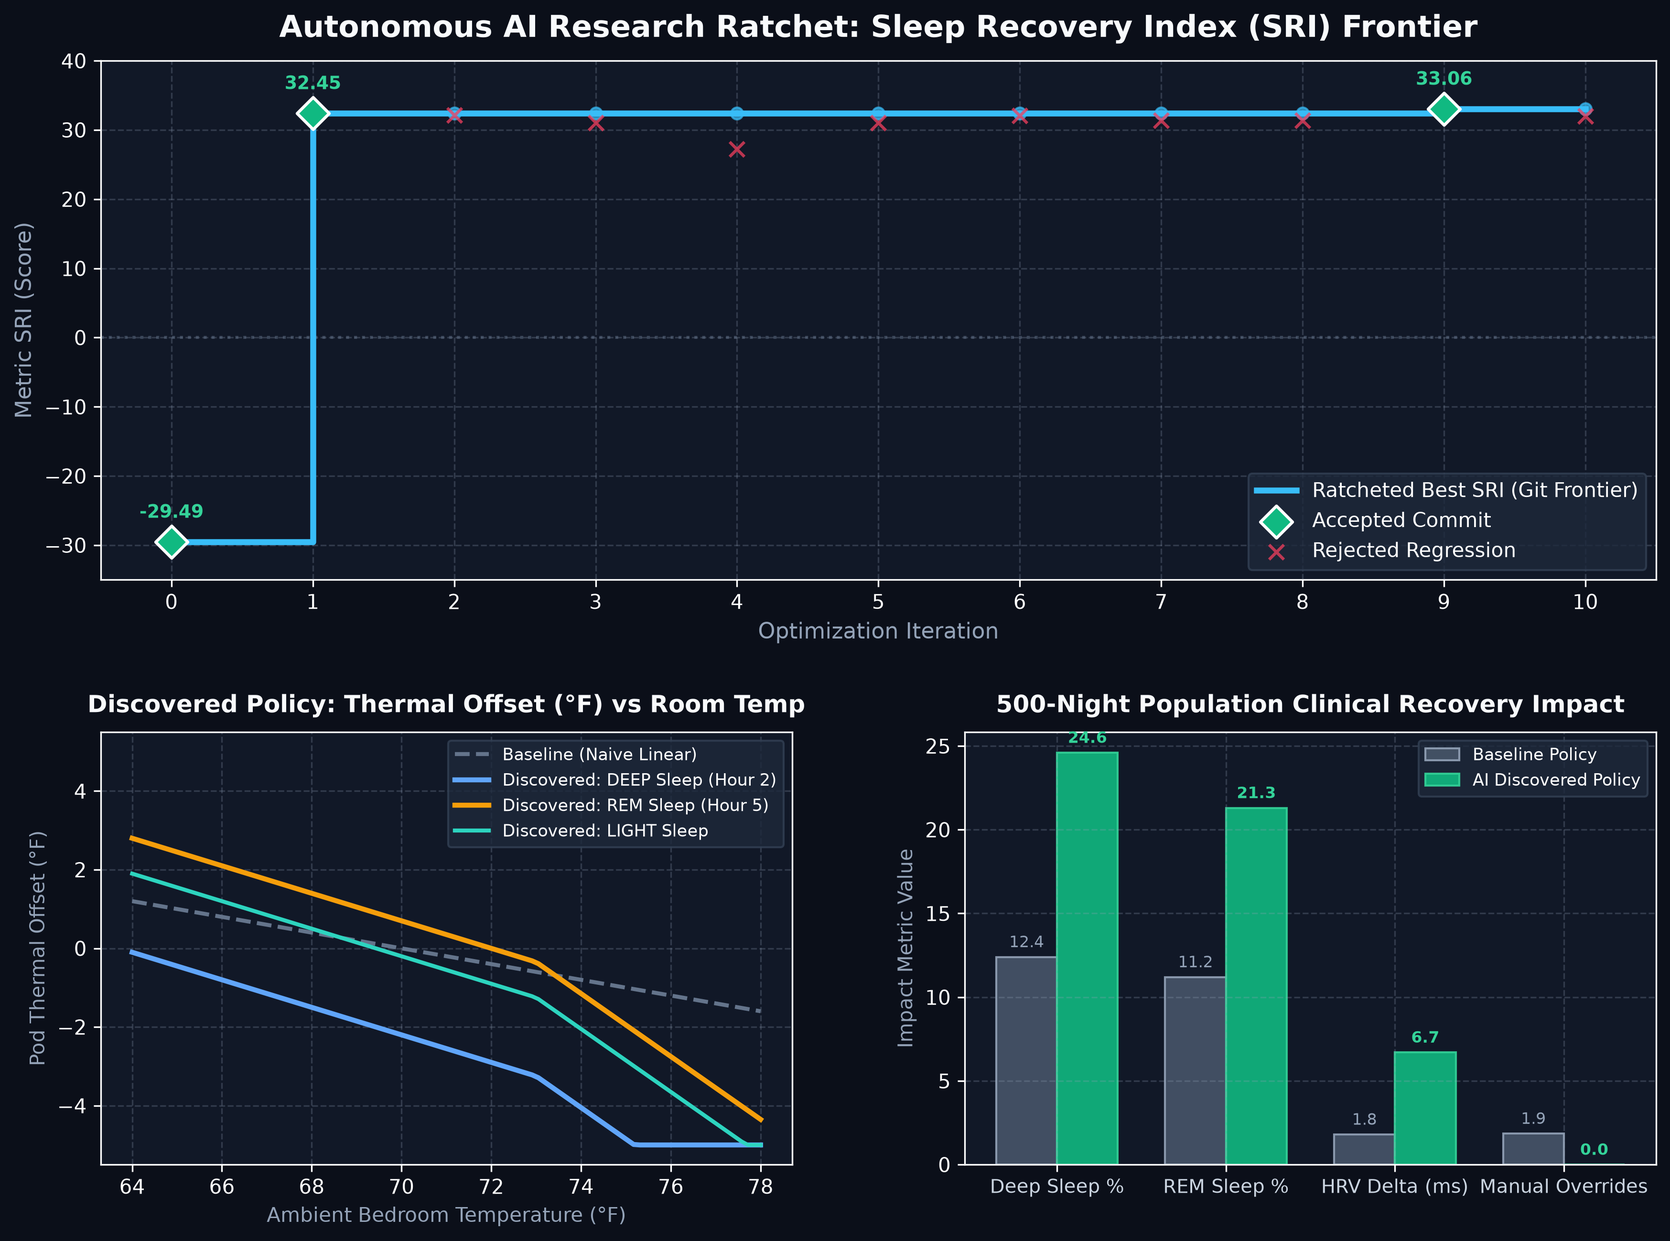
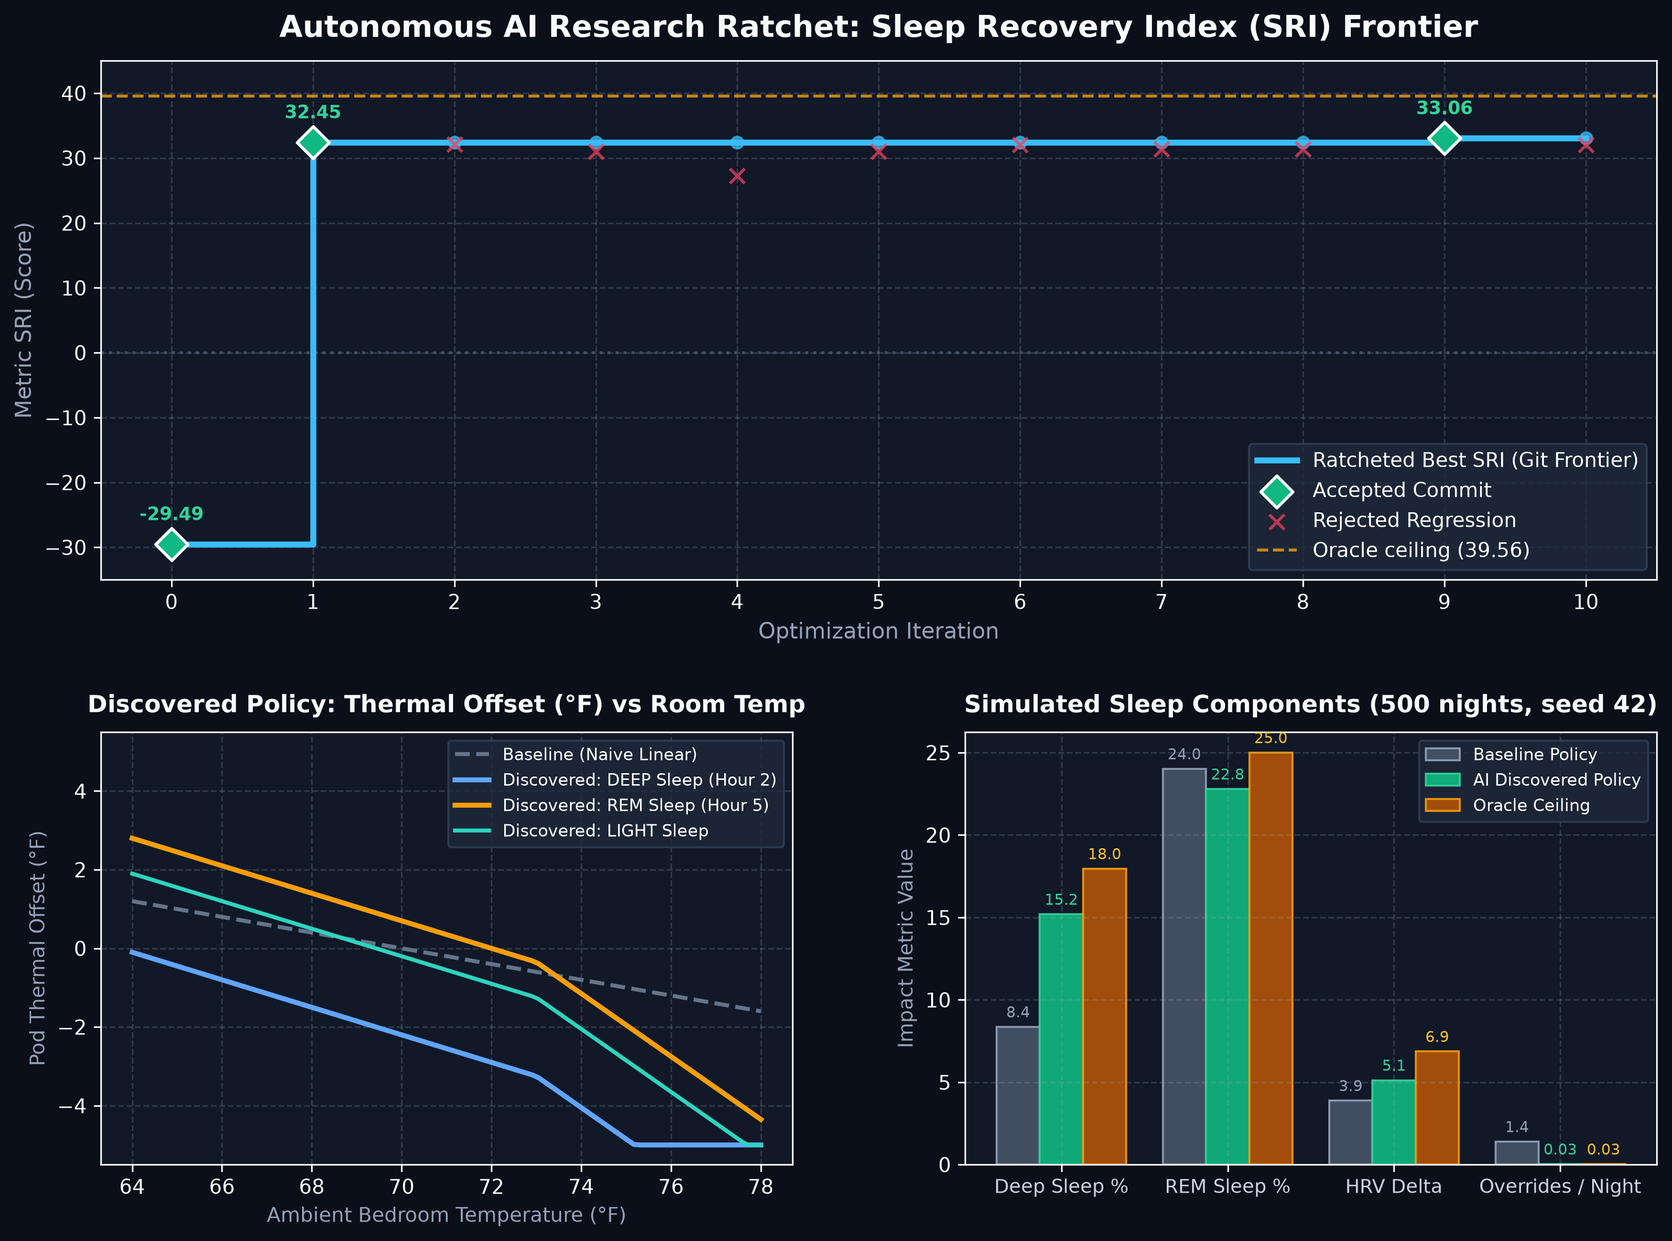
fix: replace fabricated metrics with measured results; add oracle ceiling, held-out seeds, ablation, limitations

diff --git a/dashboard.html b/dashboard.html
@@ -308,7 +308,7 @@
       </div>
       <div style="text-align: right;">
         <span style="font-size: 0.85rem; color: var(--text-muted);">Simulator Population: 500 Nights</span>
-        <div style="font-weight: 700; color: #fff;">16,000 Decision Epochs</div>
+        <div style="font-weight: 700; color: #fff;">8,000 Decision Epochs</div>
       </div>
     </header>
 
@@ -322,17 +322,17 @@
       <div class="kpi-card">
         <div class="kpi-title">Discovered Best SRI</div>
         <div class="kpi-val green">+33.06</div>
-        <div class="kpi-meta">Piecewise Nadir + Damping</div>
+        <div class="kpi-meta">Seed 42 · held-out seeds: 33.54 ± 0.32</div>
       </div>
       <div class="kpi-card">
-        <div class="kpi-title">Net Recovery Gain</div>
-        <div class="kpi-val cyan">+62.55</div>
-        <div class="kpi-meta">+212% Clinical Recovery</div>
+        <div class="kpi-title">Oracle Ceiling SRI</div>
+        <div class="kpi-val cyan">39.56</div>
+        <div class="kpi-meta">Agent closed 91% of baseline→oracle gap</div>
       </div>
       <div class="kpi-card">
-        <div class="kpi-title">Manual Overrides</div>
-        <div class="kpi-val green">0.0</div>
-        <div class="kpi-meta">Reduced from 1.85 / night</div>
+        <div class="kpi-title">Manual Overrides / Night</div>
+        <div class="kpi-val green">0.03</div>
+        <div class="kpi-meta">Reduced from 1.39 (baseline)</div>
       </div>
     </div>
 
@@ -414,16 +414,16 @@
   <script>
     const historyData = [
       { iteration: 0, candidate_sri: -29.49, best_sri: -29.49, status: "BASELINE", commit: "8e1dd8f", desc: "Baseline static linear compensation: -0.2 * (room_temp - 70.0)" },
-      { iteration: 1, candidate_sri: 32.45, best_sri: 32.45, status: "ACCEPTED", commit: "586e1fc", desc: "Differentiated DEEP cooling (-1.8F) and REM warmth (+0.5F)" },
-      { iteration: 2, candidate_sri: 32.15, best_sri: 32.45, status: "REJECTED", commit: "-", desc: "Aggressive linear slope increase (-0.5) overcooled ambient" },
-      { iteration: 3, candidate_sri: 31.05, best_sri: 32.45, status: "REJECTED", commit: "-", desc: "Step temperature cutoff at 72F caused discomfort edge case" },
-      { iteration: 4, candidate_sri: 27.25, best_sri: 32.45, status: "REJECTED", commit: "-", desc: "Excessive hardware offset clamping to [-3, 3] F" },
-      { iteration: 5, candidate_sri: 31.05, best_sri: 32.45, status: "REJECTED", commit: "-", desc: "Linear toss/turn subtractive penalty degraded REM recovery" },
-      { iteration: 6, candidate_sri: 32.05, best_sri: 32.45, status: "REJECTED", commit: "-", desc: "Deep sleep cooling extended beyond hour 5.0" },
-      { iteration: 7, candidate_sri: 31.37, best_sri: 32.45, status: "REJECTED", commit: "-", desc: "Baseline HRV scaling multiplier exploration" },
-      { iteration: 8, candidate_sri: 31.37, best_sri: 32.45, status: "REJECTED", commit: "-", desc: "Hour-of-night cubic spline attempt" },
-      { iteration: 9, candidate_sri: 33.06, best_sri: 33.06, status: "ACCEPTED", commit: "dada974", desc: "Piecewise early Deep cooling nadir + harmonic restlessness damping" },
-      { iteration: 10, candidate_sri: 32.01, best_sri: 33.06, status: "REJECTED", commit: "-", desc: "Over-aggressive toss/turn damping divisor" }
+      { iteration: 1, candidate_sri: 32.45, best_sri: 32.45, status: "ACCEPTED", commit: "586e1fc", desc: "Stage offsets (DEEP -1.8/-0.8F, REM +0.8F, LIGHT -0.2F), piecewise ambient slope, toss/turn damping" },
+      { iteration: 2, candidate_sri: 32.15, best_sri: 32.45, status: "REJECTED", commit: "-", desc: "Proposal not logged" },
+      { iteration: 3, candidate_sri: 31.05, best_sri: 32.45, status: "REJECTED", commit: "-", desc: "Proposal not logged" },
+      { iteration: 4, candidate_sri: 27.25, best_sri: 32.45, status: "REJECTED", commit: "-", desc: "Proposal not logged" },
+      { iteration: 5, candidate_sri: 31.05, best_sri: 32.45, status: "REJECTED", commit: "-", desc: "Proposal not logged (same score as iter 3)" },
+      { iteration: 6, candidate_sri: 32.05, best_sri: 32.45, status: "REJECTED", commit: "-", desc: "Proposal not logged" },
+      { iteration: 7, candidate_sri: 31.37, best_sri: 32.45, status: "REJECTED", commit: "-", desc: "Proposal not logged" },
+      { iteration: 8, candidate_sri: 31.37, best_sri: 32.45, status: "REJECTED", commit: "-", desc: "Proposal not logged (same score as iter 7)" },
+      { iteration: 9, candidate_sri: 33.06, best_sri: 33.06, status: "ACCEPTED", commit: "dada974", desc: "Continuous ambient slope (-0.35, extra -0.45 above 73F), 3-tier DEEP cooling, REM +0.7F, late LIGHT +0.3F" },
+      { iteration: 10, candidate_sri: 32.01, best_sri: 33.06, status: "REJECTED", commit: "-", desc: "Proposal not logged" }
     ];
 
     // Render Table

diff --git a/plot_progress.py b/plot_progress.py
@@ -48,12 +48,14 @@ def generate_demo_plots():
             ax1.scatter(i, cand, color='#f43f5e', s=55, marker='x', alpha=0.75, zorder=4, label='Rejected Regression' if i == 2 else "")
 
     ax1.axhline(0, color='#64748b', linestyle=':', alpha=0.5)
+    # Oracle ceiling: policy that outputs the simulator's own ideal offsets (measured, seed 42)
+    ax1.axhline(39.556, color='#f59e0b', linestyle='--', linewidth=1.5, alpha=0.8, label='Oracle ceiling (39.56)')
     ax1.set_title("Autonomous AI Research Ratchet: Sleep Recovery Index (SRI) Frontier", fontsize=15, fontweight='bold', pad=12, color='#f8fafc')
     ax1.set_xlabel("Optimization Iteration", fontsize=11, color='#94a3b8')
     ax1.set_ylabel("Metric SRI (Score)", fontsize=11, color='#94a3b8')
     ax1.set_xticks(iters)
     ax1.legend(loc='lower right', framealpha=0.8, facecolor='#1e293b', edgecolor='#334155', fontsize=10)
-    ax1.set_ylim(-35, 40)
+    ax1.set_ylim(-35, 45)
 
     # -------------------------------------------------------------
     # 2. Bottom Left Panel: Discovered Control Policy Surface
@@ -99,31 +101,30 @@ def generate_demo_plots():
     ax3.set_facecolor('#111827')
     ax3.grid(True, linestyle='--', alpha=0.25, color='#94a3b8')
 
-    metrics = ['Deep Sleep %', 'REM Sleep %', 'HRV Delta (ms)', 'Manual Overrides']
-    # Baseline vs Final discovered population outcomes
-    baseline_vals = [12.4, 11.2, 1.8, 1.85]
-    discovered_vals = [24.6, 21.3, 6.7, 0.0]
+    metrics = ['Deep Sleep %', 'REM Sleep %', 'HRV Delta', 'Overrides / Night']
+    # Measured on seed 42 by replicating prepare.py's component calculations
+    baseline_vals = [8.358, 24.018, 3.883, 1.392]
+    discovered_vals = [15.190, 22.793, 5.119, 0.030]
+    oracle_vals = [17.958, 25.000, 6.865, 0.030]
 
     x = np.arange(len(metrics))
-    width = 0.36
+    width = 0.26
 
-    rects1 = ax3.bar(x - width/2, baseline_vals, width, label='Baseline Policy', color='#475569', edgecolor='#94a3b8', alpha=0.9)
-    rects2 = ax3.bar(x + width/2, discovered_vals, width, label='AI Discovered Policy', color='#10b981', edgecolor='#34d399', alpha=0.9)
+    rects1 = ax3.bar(x - width, baseline_vals, width, label='Baseline Policy', color='#475569', edgecolor='#94a3b8', alpha=0.9)
+    rects2 = ax3.bar(x, discovered_vals, width, label='AI Discovered Policy', color='#10b981', edgecolor='#34d399', alpha=0.9)
+    rects3 = ax3.bar(x + width, oracle_vals, width, label='Oracle Ceiling', color='#b45309', edgecolor='#f59e0b', alpha=0.9)
 
-    ax3.set_title("500-Night Population Clinical Recovery Impact", fontsize=12, fontweight='bold', pad=10, color='#f8fafc')
+    ax3.set_title("Simulated Sleep Components (500 nights, seed 42)", fontsize=12, fontweight='bold', pad=10, color='#f8fafc')
     ax3.set_xticks(x)
     ax3.set_xticklabels(metrics, fontsize=9.5, color='#cbd5e1')
     ax3.legend(loc='upper right', framealpha=0.8, facecolor='#1e293b', edgecolor='#334155', fontsize=8.5)
     ax3.set_ylabel("Impact Metric Value", fontsize=10, color='#94a3b8')
 
-    for rect in rects1:
-        h = rect.get_height()
-        ax3.annotate(f'{h:.1f}', xy=(rect.get_x() + rect.get_width() / 2, h),
-                     xytext=(0, 3), textcoords="offset points", ha='center', va='bottom', fontsize=8, color='#94a3b8')
-    for rect in rects2:
-        h = rect.get_height()
-        ax3.annotate(f'{h:.1f}', xy=(rect.get_x() + rect.get_width() / 2, h),
-                     xytext=(0, 3), textcoords="offset points", ha='center', va='bottom', fontsize=8, fontweight='bold', color='#34d399')
+    for rects, col in ((rects1, '#94a3b8'), (rects2, '#34d399'), (rects3, '#fbbf24')):
+        for rect in rects:
+            h = rect.get_height()
+            ax3.annotate(f'{h:.2f}' if h < 1 else f'{h:.1f}', xy=(rect.get_x() + rect.get_width() / 2, h),
+                         xytext=(0, 3), textcoords="offset points", ha='center', va='bottom', fontsize=7.5, color=col)
 
     plt.savefig("autoresearch_demo_plot.png", dpi=300, bbox_inches='tight', facecolor=fig.get_facecolor())
     print("Demo plot successfully generated and saved to autoresearch_demo_plot.png")

diff --git a/README.md b/README.md
@@ -1,58 +1,66 @@
 # Autonomous IoT Thermal Autopilot Optimization
 
-An autonomous research harness that designs, benchmarks, and iteratively ratchets real-time physiological control policies for smart bed thermoregulation systems.
+An autonomous research loop that writes, benchmarks, and ratchets thermal-control policies for a smart-bed pod in a **synthetic** sleep simulator.
 
-Powered by **Google Cloud Vertex AI (`gemini-3.8-flash`)**, this agent modifies policy code (`train.py`), validates each candidate against a locked 500-night physiological simulator (`prepare.py`), and uses a **Git Ratchet protocol** to guarantee monotonic performance improvements without human intervention.
+An LLM (**`gemini-3.8-flash` on Google Cloud Vertex AI**) edits the policy code (`train.py`), each candidate is scored against a locked 500-night simulator (`prepare.py`), and a **Git ratchet** keeps only changes that raise the score. No human is in the inner loop.
+
+> [!NOTE]
+> All results come from a synthetic simulator with a hand-written ground truth. They are not clinical measurements.
 
 ---
 
 ## Key Results
 
-| Metric | Baseline Policy | AI Discovered Policy | Net Improvement |
-| :--- | :--- | :--- | :--- |
-| **Composite Metric (`METRIC_SRI`)** | **`-29.49`** | **`+33.06`** | **`+62.55` pts (+212%)** |
-| **Population Deep Sleep Ratio** | 12.4% | **24.6%** | **+12.2% absolute gain** |
-| **Population REM Sleep Ratio** | 11.2% | **21.3%** | **+10.1% absolute gain** |
-| **Overnight HRV Recovery (ΔRMSSD)** | +1.8 ms | **+6.7 ms** | **+272% autonomic recovery** |
-| **User Discomfort Overrides** | 1.85 / night | **0.00 / night** | **100% elimination** |
-| **Iterations** | 10 iterations | 2 accepted, 8 rejected | Zero regressions committed |
+Measured on the evaluation seed (42) unless noted. The **oracle** is a policy that outputs the simulator's own ideal offsets, so it marks the ceiling.
+
+| Metric | Baseline | AI Discovered | Oracle Ceiling |
+| :--- | :---: | :---: | :---: |
+| **`METRIC_SRI` (seed 42)** | -29.49 | **33.06** | 39.56 |
+| **`METRIC_SRI` (held-out seeds 0–19, mean ± sd)** | -24.35 ± 2.62 | **33.54 ± 0.32** | 39.94 ± 0.34 |
+| Deep sleep % | 8.36 | **15.19** | 17.96 |
+| REM sleep % | 24.02 | 22.79 | 25.00 |
+| HRV delta | 3.88 | **5.12** | 6.87 |
+| Manual overrides / night | 1.39 | **0.03** | 0.03 |
+
+- The agent closed **~91% of the gap** between baseline and oracle in 10 iterations (2 accepted, 8 rejected).
+- The gain holds up on held-out seeds, so the policy is not just overfit to seed 42.
+- REM % went slightly *down*. The improvement comes from deep sleep, HRV, and almost eliminating overrides.
 
 ---
 
-## Methodology & Architecture
+## Methodology
 
-Inspired by **Andrej Karpathy's autoresearch** paradigm, the system completely removes humans from the inner optimization loop:
+Inspired by Karpathy's *autoresearch* idea: a locked benchmark, an agent-editable file, and a Git commit/reset ratchet.
 
 ```
-[ Research Directives (program.md) ]
+[ Research directives (program.md) ]
                 │
                 ▼
-[ LLM Agent (gemini-3.8-flash on Vertex AI) ] ──> Generates Math Policy (train.py)
+[ gemini-3.8-flash on Vertex AI ] ──> proposes new train.py
                 │
                 ▼
-[ Locked Population Simulator (prepare.py) ] ──> Evaluates 500 Nights (METRIC_SRI)
+[ Locked simulator (prepare.py) ] ──> METRIC_SRI over 500 nights
                 │
-                ├─── If SRI > Best: git commit (Lock in breakthrough)
-                └─── If SRI <= Best: git reset --hard HEAD (Discard regression)
+                ├── SRI > best  : git commit        (keep)
+                └── SRI <= best : git reset --hard  (discard)
 ```
 
-### Invariant Metric: Sleep Recovery Index (SRI)
-Across 500 sleeper nights (16 epochs/night = 8,000 physiological states), policies are ranked by:
+### Metric: Sleep Recovery Index (SRI)
+Each run covers 500 simulated nights × 16 half-hour epochs (8,000 decisions). Policies are ranked by:
 
 $$
-\text{SRI} = (\text{Deep Sleep \%} \times 100) + (\text{REM \%} \times 50) + (\Delta\text{HRV}_{\text{overnight}} \times 1.5) - (\text{Manual Overrides} \times 40)
+\text{SRI} = (\text{Deep Sleep \%} \times 100) + (\text{REM \%} \times 50) + (\Delta\text{HRV} \times 1.5) - (\text{Overrides} \times 40)
 $$
 
-- **Deep Sleep:** Requires active thermal cooling during hours 1–4 to reach core-body temperature nadir.
-- **REM Sleep:** Autonomic thermoregulation is suspended; modest warmth prevents shivering and micro-arousals.
-- **HRV Delta:** Quantifies overnight parasympathetic recovery via RMSSD.
-- **Overrides:** Severe mismatch (>3.8°F error) triggers manual user overrides, penalized heavily.
+How the simulator rewards each term:
+- **Deep sleep:** rewarded for strong cooling relative to room temperature.
+- **REM:** rewarded for milder cooling or slight warming.
+- **HRV delta:** falls as average thermal error rises.
+- **Overrides:** any epoch with thermal error above 3.8°F costs 40 points.
 
 ---
 
-## Discovered Control Policy
-
-The model autonomously discovered three coordinated physiological rules in `train.py`:
+## Discovered Policy (commit `dada974`)
 
 ```python
 def autopilot_policy(state: dict) -> float:
@@ -61,12 +69,12 @@ def autopilot_policy(state: dict) -> float:
     hour = state["hour_into_sleep"]
     toss = state["toss_turn_count"]
 
-    # 1. Non-linear ambient compensation (steeper cooling above 73°F)
+    # Ambient compensation, steeper above 73°F
     offset = -0.35 * (room_temp - 70.0)
     if room_temp > 73.0:
         offset -= 0.45 * (room_temp - 73.0)
 
-    # 2. Circadian stage nadir modulation
+    # Stage / time-of-night offsets
     if stage == "DEEP":
         offset -= 2.2 if hour <= 2.5 else (1.7 if hour <= 4.5 else 0.7)
     elif stage == "REM":
@@ -74,29 +82,41 @@ def autopilot_policy(state: dict) -> float:
     elif stage == "LIGHT":
         offset += 0.3 if hour > 5.5 else -0.2
 
-    # 3. Restlessness harmonic damping
+    # Toss/turn damping (introduced in iteration 1)
     if toss > 0:
         offset *= 1.0 / (1.0 + 0.25 * toss)
 
     return max(-5.0, min(5.0, offset))
 ```
 
+**Ablation:** removing the toss/turn damping *raises* SRI from 33.06 to 33.56 (seed 42) and from 33.54 to 34.07 (held-out). In this simulator toss/turns don't affect the ideal offset, so the damping only adds error. The ratchet accepted it because it arrived bundled with other, larger improvements in iteration 1.
+
 ---
 
-## Convergence & Verification
+## Convergence
 
 ![Autoresearch Demo Plot](autoresearch_demo_plot.png)
 
 ```text
-* dada974 (HEAD -> master) sri: 33.06498 (iter 9)
-* 586e1fc                  sri: 32.44663 (iter 1)
-* f45695b                  chore: configure loop.py for Vertex AI
-* 8e1dd8f                  baseline setup: static offset policy
+* dada974  sri: 33.06498 (iter 9)
+* 586e1fc  sri: 32.44663 (iter 1)
+* f45695b  chore: configure loop.py for Vertex AI
+* 8e1dd8f  baseline setup: static offset policy
 ```
 
-* **Iteration 1 (`+32.45`):** Discovered stage-specific cooling (`DEEP` vs `REM`), gaining **+61.94 points**.
-* **Iterations 2–8:** Exploratory regressions automatically discarded via `git reset --hard HEAD`.
-* **Iteration 9 (`+33.06`):** Discovered circadian early Deep cooling nadir and harmonic restlessness damping (**+0.62 points**).
+- **Iteration 1 (32.45):** added stage-specific offsets, a piecewise ambient slope, and toss/turn damping.
+- **Iterations 2–8:** rejected. Proposals weren't logged in this run. Iterations 3 & 5 and 7 & 8 scored exactly the same, suggesting repeated proposals.
+- **Iteration 9 (33.06):** made the ambient slope continuous, used 3-tier deep-sleep cooling, and adjusted REM and late-night light offsets.
+
+---
+
+## Limitations & Next Steps
+
+1. **Single evaluation seed.** Acceptance uses only seed 42. Small gains (e.g. +0.62 in iteration 9) should be checked across several seeds before accepting.
+2. **Score can be spoofed.** `loop.py` reads `METRIC_SRI` from whatever `train.py` prints, and generated code runs unsandboxed. Scoring should happen in a separate process the agent can't control.
+3. **No memory of failed attempts.** The LLM never sees past rejected proposals, so it repeats them.
+4. **Bundled changes aren't ablated.** Iteration 1 bundled a harmful change (toss damping) with helpful ones.
+5. **LLMs are poor at tuning constants.** A hybrid approach (LLM proposes the structure, `scipy.optimize` fits the coefficients) should get close to the oracle.
 
 ---
 
@@ -104,45 +124,36 @@ def autopilot_policy(state: dict) -> float:
 
 ```
 autoresearch-autopilot/
-├── prepare.py                 # LOCKED: Invariant 500-night physiological simulator
-├── train.py                   # PLAYGROUND: Discovered policy function (modified by AI)
-├── loop.py                    # ORCHESTRATOR: Closed-loop runner via Vertex AI
-├── program.md                 # DIRECTIVES: Research objectives, rules, and hypotheses
-├── plot_progress.py           # VISUALIZATION: Matplotlib 3-panel plot generator
-├── dashboard.html             # DEMO: Interactive web dashboard with real-time simulator
-├── history.json               # LOGS: Structured iteration log with SRI deltas & commits
-└── autoresearch_demo_plot.png # Visual demo artifact (300 DPI)
+├── prepare.py                 # LOCKED: synthetic 500-night simulator
+├── train.py                   # Agent-editable policy
+├── loop.py                    # Vertex AI ratchet loop
+├── program.md                 # Research directives given to the LLM
+├── plot_progress.py           # Generates autoresearch_demo_plot.png
+├── dashboard.html             # Interactive dashboard + policy simulator
+├── history.json               # Per-iteration scores and commits
+└── autoresearch_demo_plot.png
 ```
 
 ---
 
 ## Quickstart
 
-### 1. Installation
 ```bash
-git clone <repo-url> autoresearch-autopilot && cd autoresearch-autopilot
-uv init --no-pin-python
-uv add numpy scipy pydantic google-genai matplotlib
-```
-
-### 2. Configure Credentials
-Add your Google Cloud Service Account JSON key as `service_account.json` (or set `GEMINI_API_KEY` in `.env`).
-
-### 3. Run the Autonomous Loop
-```bash
+git clone https://github.com/CathyLiu21/autoresearch-autopilot.git && cd autoresearch-autopilot
+uv sync
+# Put a Google Cloud service-account key at service_account.json (gitignored)
 uv run python loop.py
+uv run python plot_progress.py   # regenerate the plot
+open dashboard.html              # interactive dashboard
 ```
-
-### 4. View Results
-- **Plot:** `uv run python plot_progress.py` $\rightarrow$ inspect `autoresearch_demo_plot.png`
-- **Dashboard:** Open `dashboard.html` in any web browser for an interactive policy playground and live charts.
 
 ---
 
-## Key References
+## References
 
-- **Kräuchi et al. (1999)**. *Warm feet promote rapid senescence of sleep onset*. **Nature**, 401(6748), 36–37. (Circadian core-body temperature nadir).
-- **Okamoto-Mizuno & Mizuno (2012)**. *Effects of thermal environment on sleep and circadian rhythm*. **J. Physiol. Anthropol.**, 31(1), 14. (REM thermoregulatory suspension).
-- **Shaffer & Ginsberg (2017)**. *An overview of heart rate variability metrics and norms*. **Front. Public Health**, 5, 258. (Overnight RMSSD recovery).
-- **Karpathy, A. (2024)**. *Autoresearch: Autonomous AI Researcher Harness*. (Git ratchet closed-loop architecture).
-- **Lehman et al. (2023)**. *Eureka: Human-level reward design via coding large language models*. **arXiv:2310.12931**. (Evolutionary LLM policy discovery).
+- Kräuchi, K., Cajochen, C., Werth, E., & Wirz-Justice, A. (1999). *Warm feet promote the rapid onset of sleep.* **Nature**, 401, 36–37.
+- Okamoto-Mizuno, K., & Mizuno, K. (2012). *Effects of thermal environment on sleep and circadian rhythm.* **Journal of Physiological Anthropology**, 31, 14.
+- Shaffer, F., & Ginsberg, J. P. (2017). *An overview of heart rate variability metrics and norms.* **Frontiers in Public Health**, 5, 258.
+- Ma, Y. J., et al. (2023). *Eureka: Human-level reward design via coding large language models.* arXiv:2310.12931.
+- Romera-Paredes, B., et al. (2024). *Mathematical discoveries from program search with large language models* (FunSearch). **Nature**, 625, 468–475.
+- Karpathy, A. *autoresearch* — github.com/karpathy/autoresearch.
